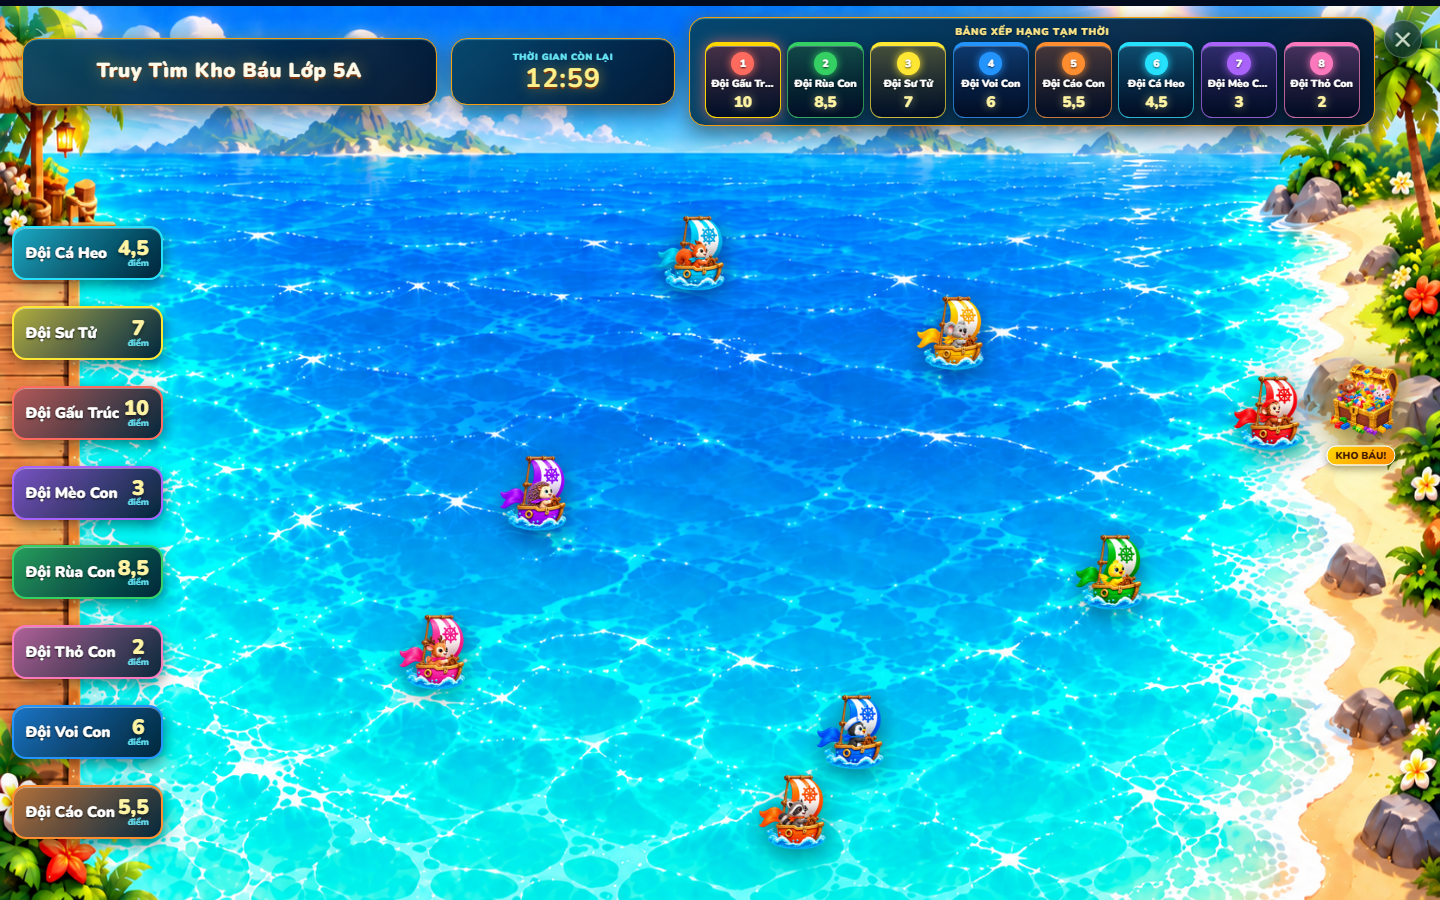
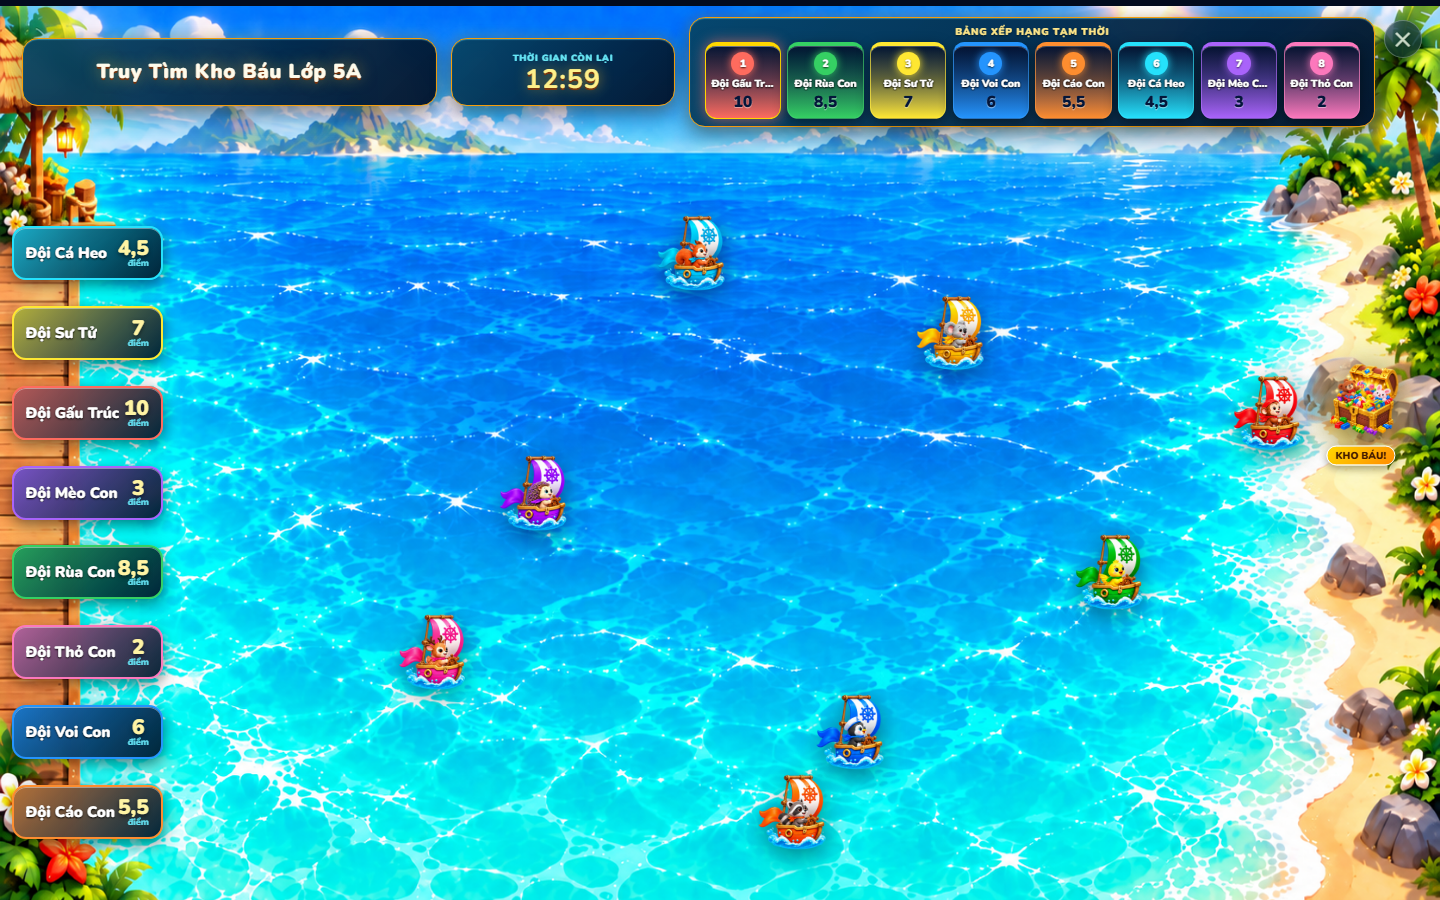
fix(team-competition): chuyển gradient bảng xếp hạng từ tối (trái/trên) sang sáng màu đội (phải/dưới)

Changed region(s): [[0.4688, 0.0311, 0.9688, 0.1556], [0.0625, 0.0622, 0.25, 0.0933], [0.3438, 0.0622, 0.4375, 0.1244]]

diff --git a/src/style.css b/src/style.css
@@ -6561,7 +6561,7 @@ input[type="text"], input[type="password"], select, textarea {
     border: 1.5px solid color-mix(in srgb, var(--leaderboard-accent) 65%, rgba(255, 255, 255, 0.15));
     border-top: 4px solid var(--leaderboard-accent);
     border-radius: clamp(8px, .8vw, 12px);
-    background: linear-gradient(180deg, color-mix(in srgb, var(--leaderboard-accent) 26%, rgba(6, 24, 60, 0.95)), rgba(2, 10, 32, 0.92));
+    background: linear-gradient(180deg, rgba(4, 18, 48, 0.96) 0%, color-mix(in srgb, var(--leaderboard-accent) 35%, rgba(6, 24, 60, 0.95)) 45%, var(--leaderboard-accent) 100%);
     box-shadow: 0 4px 14px rgba(0, 0, 0, 0.45), inset 0 1px 0 rgba(255, 255, 255, 0.25);
     color: #fff;
     text-align: center;
@@ -6587,17 +6587,17 @@ input[type="text"], input[type="password"], select, textarea {
     font-size: clamp(.52rem, .74vw, .86rem);
     font-weight: 850;
     line-height: 1.15;
-    text-shadow: 0 1px 2px rgba(0, 0, 0, 0.8);
+    text-shadow: 0 1px 2px rgba(0, 0, 0, 0.9), 0 0 2px rgba(0, 0, 0, 0.8);
     overflow: hidden;
     text-overflow: ellipsis;
     white-space: nowrap;
 }
 #treasure-modal.team-board-fullscreen .team-race-stadium--speed-race .team-race-scoreboard__entry b {
-    color: #fff4a4;
-    font-size: clamp(.72rem, 1.1vw, 1.25rem);
-    font-weight: 900;
+    color: #04163a;
+    font-size: clamp(.75rem, 1.15vw, 1.3rem);
+    font-weight: 950;
     line-height: 1;
-    text-shadow: 0 0 10px rgba(255, 244, 164, 0.6);
+    text-shadow: 0 1px 0 rgba(255, 255, 255, 0.4);
 }
 #treasure-modal.team-board-fullscreen .team-race-stadium--speed-race .team-race-scoreboard__entry[data-rank="1"] {
     box-shadow: 0 0 14px color-mix(in srgb, var(--leaderboard-accent) 65%, transparent), inset 0 1px rgba(255, 255, 255, 0.4);
@@ -6767,7 +6767,7 @@ input[type="text"], input[type="password"], select, textarea {
     border: 1.5px solid color-mix(in srgb, var(--leaderboard-accent) 65%, rgba(255, 255, 255, 0.15));
     border-left: 6px solid var(--leaderboard-accent);
     border-radius: clamp(10px, 1.1vw, 16px);
-    background: linear-gradient(90deg, color-mix(in srgb, var(--leaderboard-accent) 26%, rgba(6, 24, 60, 0.95)), rgba(2, 10, 32, 0.92));
+    background: linear-gradient(90deg, rgba(6, 20, 50, 0.96) 0%, color-mix(in srgb, var(--leaderboard-accent) 35%, rgba(6, 20, 50, 0.95)) 40%, var(--leaderboard-accent) 100%);
     box-shadow: 0 4px 14px rgba(0, 0, 0, 0.45), inset 0 1px 0 rgba(255, 255, 255, 0.25);
     color: #fff;
     text-align: left;
@@ -6794,14 +6794,14 @@ input[type="text"], input[type="password"], select, textarea {
     line-height: 1.2;
     text-overflow: ellipsis;
     white-space: nowrap;
-    text-shadow: 0 1px 2px rgba(0, 0, 0, 0.8);
+    text-shadow: 0 1px 2px rgba(0, 0, 0, 0.9), 0 0 2px rgba(0, 0, 0, 0.8);
 }
 #treasure-modal.team-board-fullscreen .team-race-stadium--balloon-festival .team-race-scoreboard__entry b {
-    color: #fff4a4;
+    color: #04163a;
     font-size: clamp(1.15rem, 1.45vw, 1.65rem);
-    font-weight: 900;
+    font-weight: 950;
     line-height: 1;
-    text-shadow: 0 0 12px rgba(255, 244, 164, 0.6);
+    text-shadow: 0 1px 0 rgba(255, 255, 255, 0.4);
 }
 #treasure-modal.team-board-fullscreen .team-race-stadium--balloon-festival .team-race-scoreboard__entry[data-rank="1"] {
     box-shadow: 0 0 16px color-mix(in srgb, var(--leaderboard-accent) 60%, transparent), inset 0 1px rgba(255, 255, 255, 0.4);
@@ -7075,7 +7075,7 @@ input[type="text"], input[type="password"], select, textarea {
     border: 1.5px solid color-mix(in srgb, var(--leaderboard-accent) 65%, rgba(255, 255, 255, 0.15));
     border-top: 4px solid var(--leaderboard-accent);
     border-radius: clamp(8px, 0.8vw, 12px);
-    background: linear-gradient(180deg, color-mix(in srgb, var(--leaderboard-accent) 26%, rgba(6, 24, 60, 0.95)), rgba(2, 10, 32, 0.92));
+    background: linear-gradient(180deg, rgba(4, 18, 48, 0.96) 0%, color-mix(in srgb, var(--leaderboard-accent) 35%, rgba(6, 24, 60, 0.95)) 45%, var(--leaderboard-accent) 100%);
     box-shadow: 0 4px 14px rgba(0, 0, 0, 0.45), inset 0 1px 0 rgba(255, 255, 255, 0.25);
     color: #fff;
     text-align: center;
@@ -7101,17 +7101,17 @@ input[type="text"], input[type="password"], select, textarea {
     font-size: clamp(0.52rem, 0.72vw, 0.85rem);
     font-weight: 850;
     line-height: 1.15;
-    text-shadow: 0 1px 2px rgba(0, 0, 0, 0.8);
+    text-shadow: 0 1px 2px rgba(0, 0, 0, 0.9), 0 0 2px rgba(0, 0, 0, 0.8);
     overflow: hidden;
     text-overflow: ellipsis;
     white-space: nowrap;
 }
 #treasure-modal.team-board-fullscreen .team-race-stadium--treasure-island .team-race-scoreboard__entry b {
-    color: #fff4a4;
-    font-size: clamp(0.72rem, 1.05vw, 1.25rem);
-    font-weight: 900;
+    color: #04163a;
+    font-size: clamp(0.75rem, 1.1vw, 1.3rem);
+    font-weight: 950;
     line-height: 1;
-    text-shadow: 0 0 10px rgba(255, 244, 164, 0.6);
+    text-shadow: 0 1px 0 rgba(255, 255, 255, 0.4);
 }
 #treasure-modal.team-board-fullscreen .team-race-stadium--treasure-island .team-race-scoreboard__entry[data-rank="1"] {
     box-shadow: 0 0 14px color-mix(in srgb, var(--leaderboard-accent) 65%, transparent), inset 0 1px rgba(255, 255, 255, 0.4);
@@ -7452,7 +7452,7 @@ input[type="text"], input[type="password"], select, textarea {
     min-height: clamp(48px, 5.8vh, 60px);
     padding: clamp(6px, 0.8vh, 10px) clamp(10px, 0.8vw, 14px);
     border-radius: 12px;
-    background: linear-gradient(90deg, color-mix(in srgb, var(--rocket-color, #00f0ff) 26%, rgba(3, 14, 40, 0.95)), rgba(2, 8, 26, 0.92));
+    background: linear-gradient(90deg, rgba(3, 14, 40, 0.96) 0%, color-mix(in srgb, var(--rocket-color, #00f0ff) 35%, rgba(3, 14, 40, 0.95)) 40%, var(--rocket-color, #00f0ff) 100%);
     border: 1.5px solid color-mix(in srgb, var(--rocket-color, #00f0ff) 65%, rgba(255, 255, 255, 0.15));
     border-left: 6px solid var(--rocket-color, #00f0ff);
     box-shadow: 0 4px 14px rgba(0, 0, 0, 0.45), inset 0 1px 0 rgba(255, 255, 255, 0.25);
@@ -7481,13 +7481,14 @@ input[type="text"], input[type="password"], select, textarea {
     overflow: hidden;
     white-space: nowrap;
     text-overflow: ellipsis;
-    text-shadow: 0 1px 2px rgba(0, 0, 0, 0.7);
+    text-shadow: 0 1px 2px rgba(0, 0, 0, 0.9), 0 0 2px rgba(0, 0, 0, 0.8);
 }
 #treasure-modal.team-board-fullscreen .team-competition-board--live .team-race-stadium--space-launch .team-race-scoreboard__entry b {
-    color: #fff4a4;
+    color: #04163a;
     font-size: clamp(1.15rem, 1.45vw, 1.6rem);
-    font-weight: 900;
-    text-shadow: 0 0 12px rgba(255, 244, 164, 0.7);
+    font-weight: 950;
+    line-height: 1;
+    text-shadow: 0 1px 0 rgba(255, 255, 255, 0.4);
 }
 
 /* Gán màu chuẩn xác cho 8 phi thuyền */
